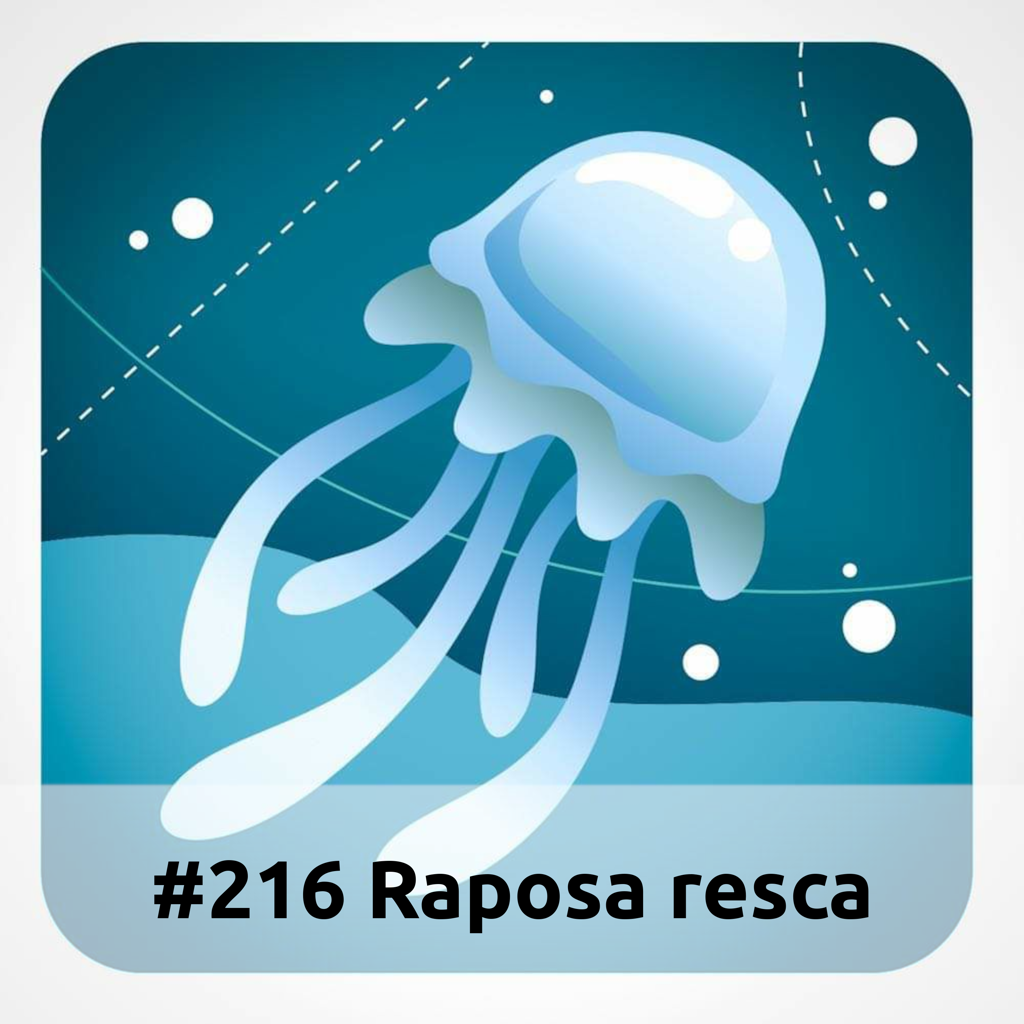
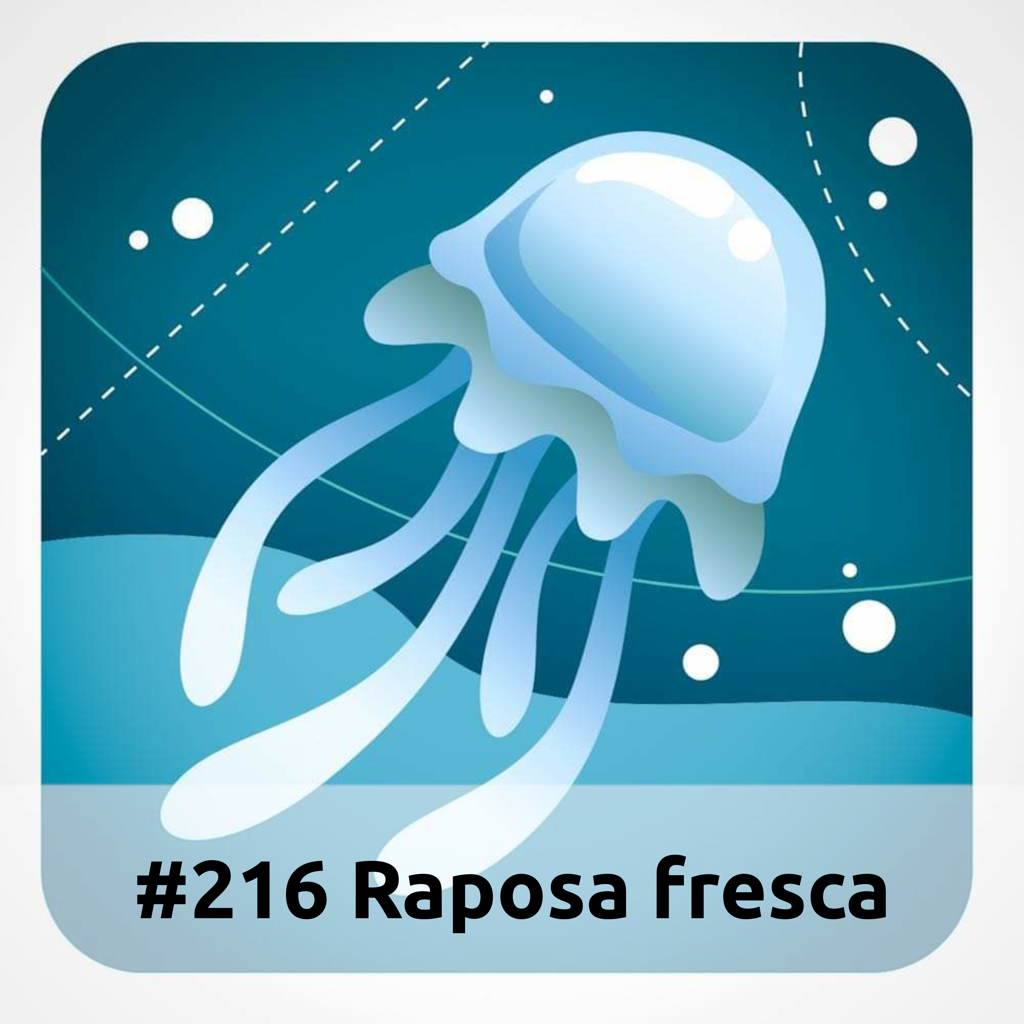
Publishing e216.md + e216.png

Changed region(s): [[0.125, 0.8125, 0.875, 0.9375]]

diff --git a/content/post/e216.md b/content/post/e216.md
@@ -1,6 +1,6 @@
 +++
-title = "E216 Raposa resca"
-itunes_title = "Raposa resca"
+title = "E216 Raposa fresca"
+itunes_title = "Raposa fresca"
 episode = 216
 podcast_file = "https://media.blubrry.com/ubuntupt/archive.org/download/pup-e216/e216.mp3"
 podcast_duration = "1:02:03"
